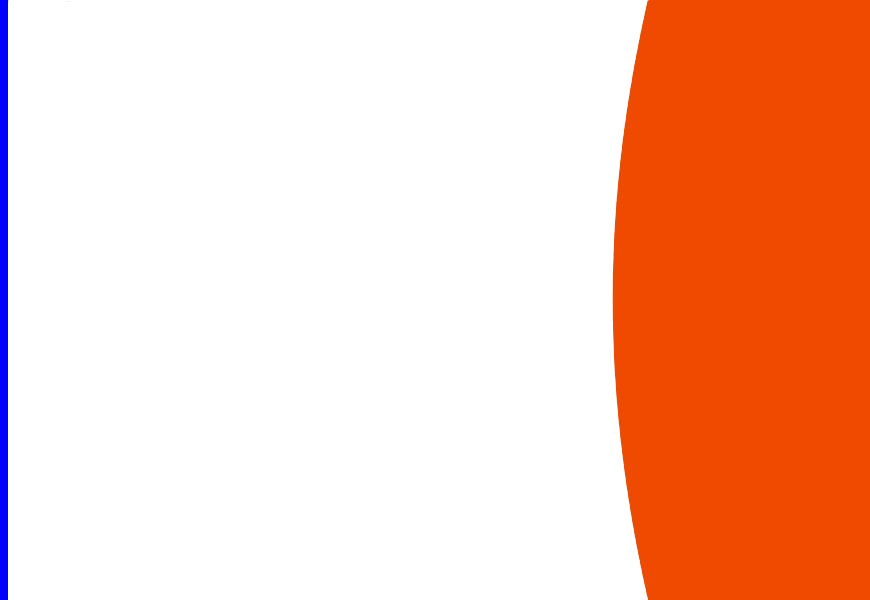
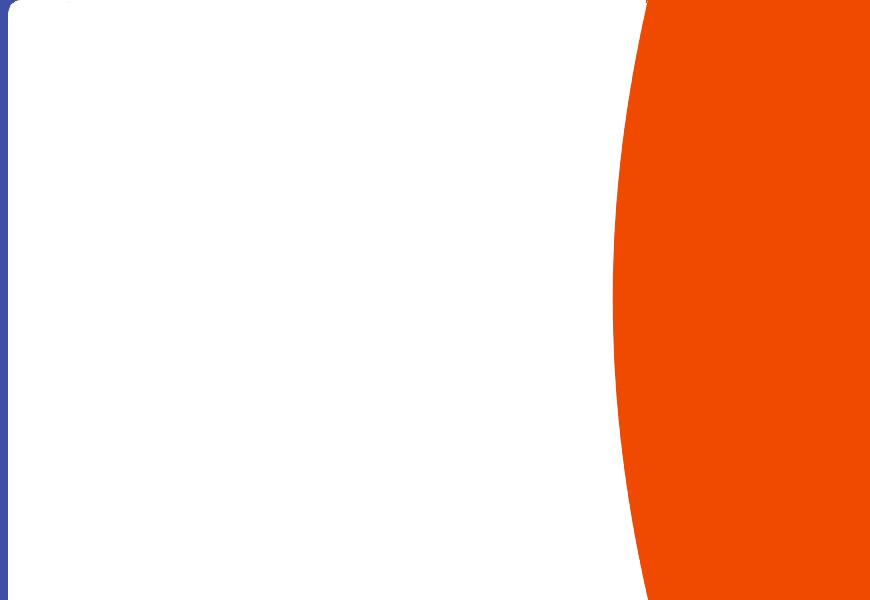
Changed colors
Changed colors to fit the mockup color palette.

Changed region(s): [[0.0, 0.0, 0.031, 1.0]]

diff --git a/src/main/resources/css/MainSceneStyle.css b/src/main/resources/css/MainSceneStyle.css
@@ -14,7 +14,7 @@
 }
 
 #titleBar{
-    -fx-background-color: blue;
+    -fx-background-color: #3f4fa5;
 }
 #rectangle{
 -fx-fill: transparent;
@@ -31,7 +31,7 @@
 
 
 #btnGenerate {
-    -fx-background-color: blue;
+    -fx-background-color: #3f4fa5;
     -fx-font-family: "Arial Black";
     -fx-text-fill: white;
 }
@@ -42,13 +42,22 @@
 .tab{
     -fx-background-radius: 30;
     -fx-border-radius: 30;
-    -fx-background-color: blue;
+    -fx-background-color: #3f4fa5;
+}
+.tab-pane {
+    -fx-tab-min-width:40px;
+    -fx-tab-max-width:40px;
+    -fx-tab-min-height:50px;
+    -fx-tab-max-height:50px;
 }
 .tab:selected{
     -fx-background-color:#008aff;
 }
+.tab-header{
+
+}
 .tab-header-background{
-    -fx-background-color: blue;
+    -fx-background-color: #3f4fa5;
 }
 #paneRegion{
 
